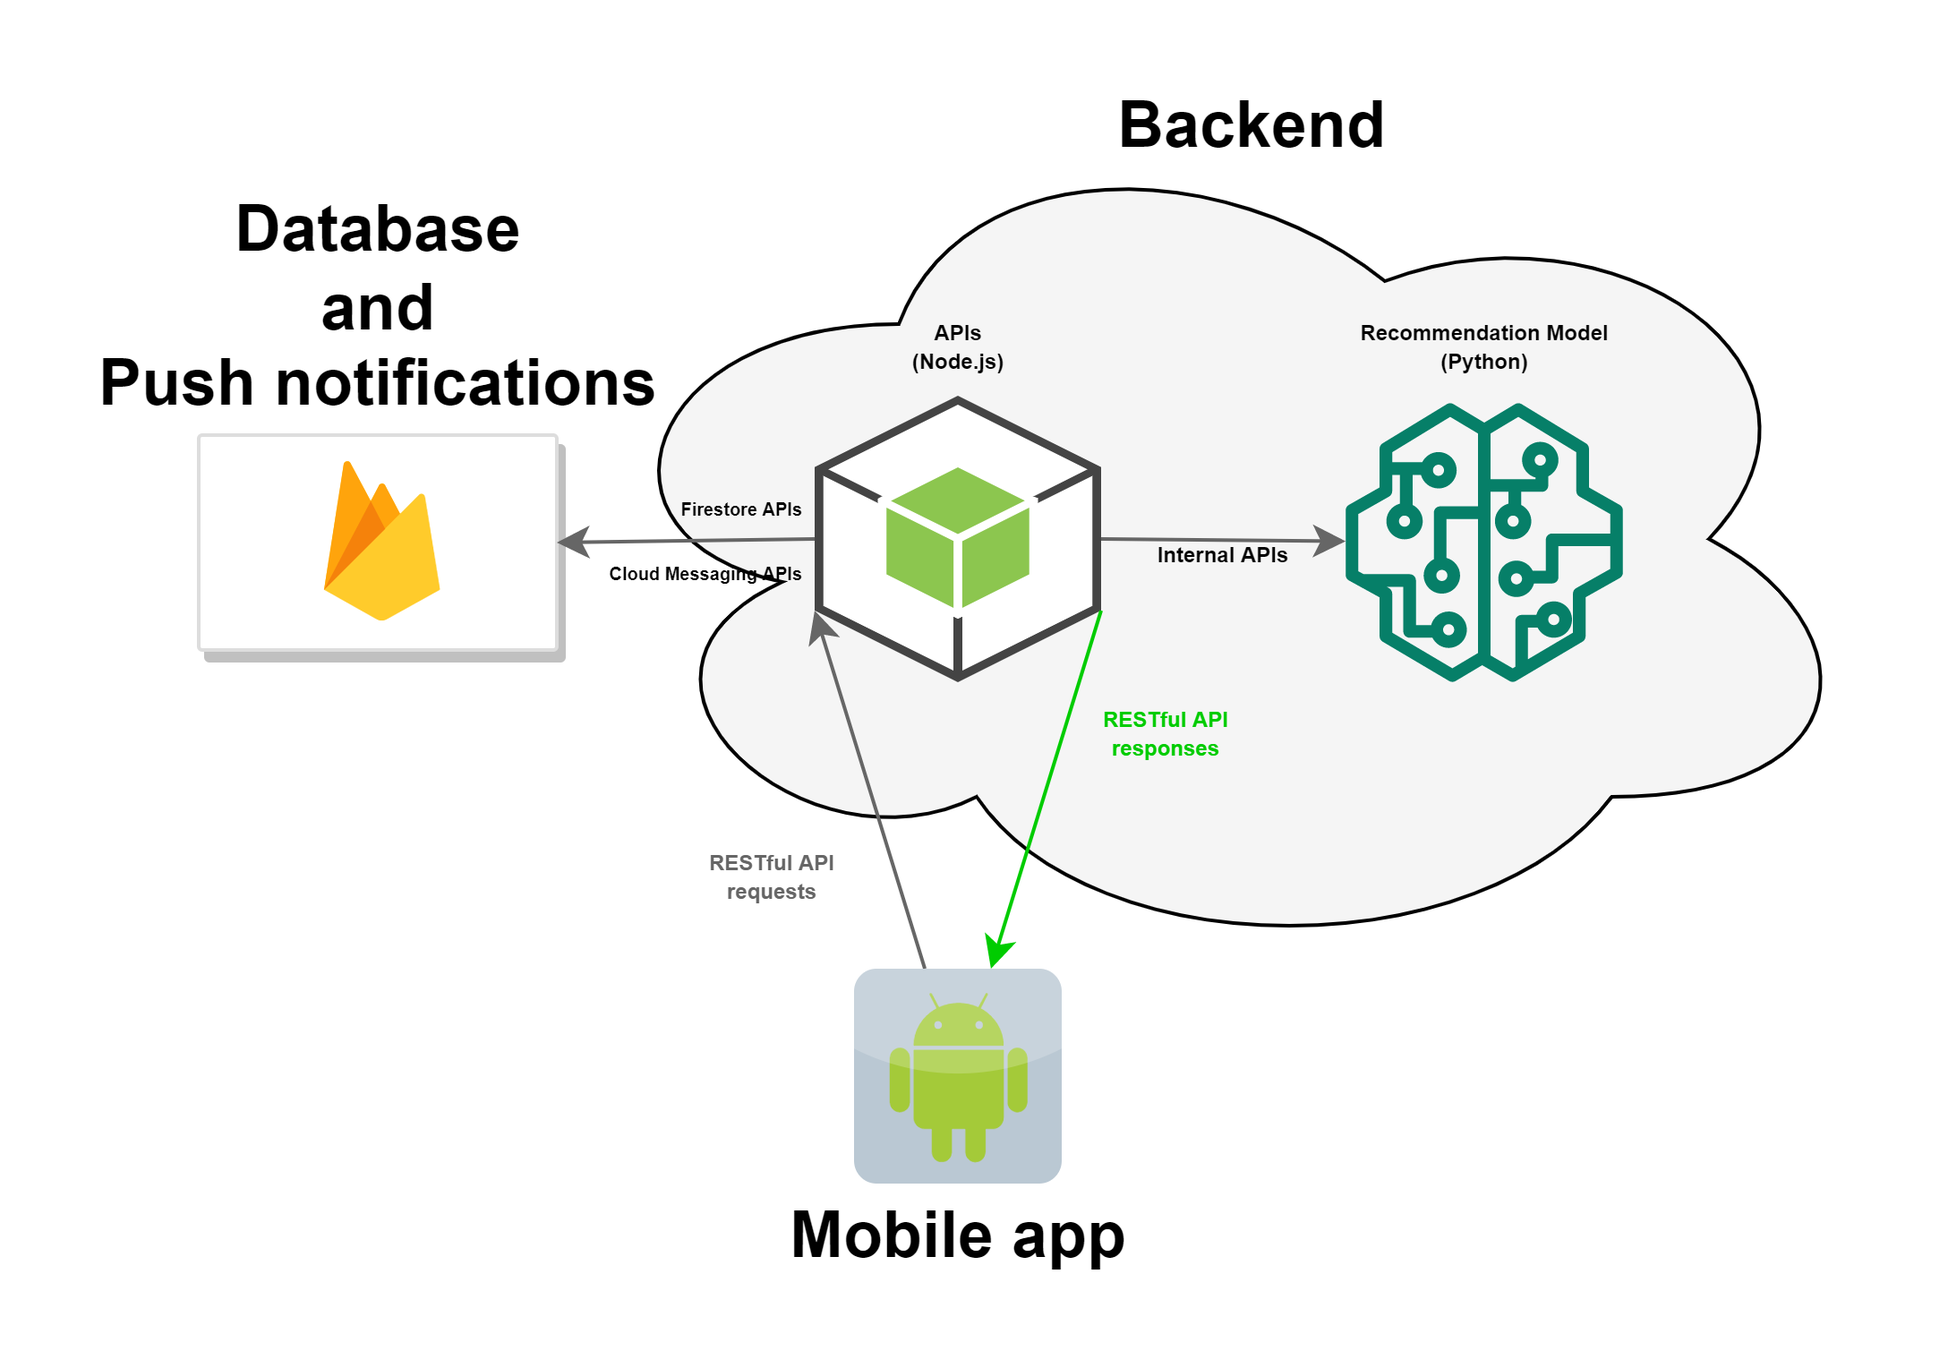
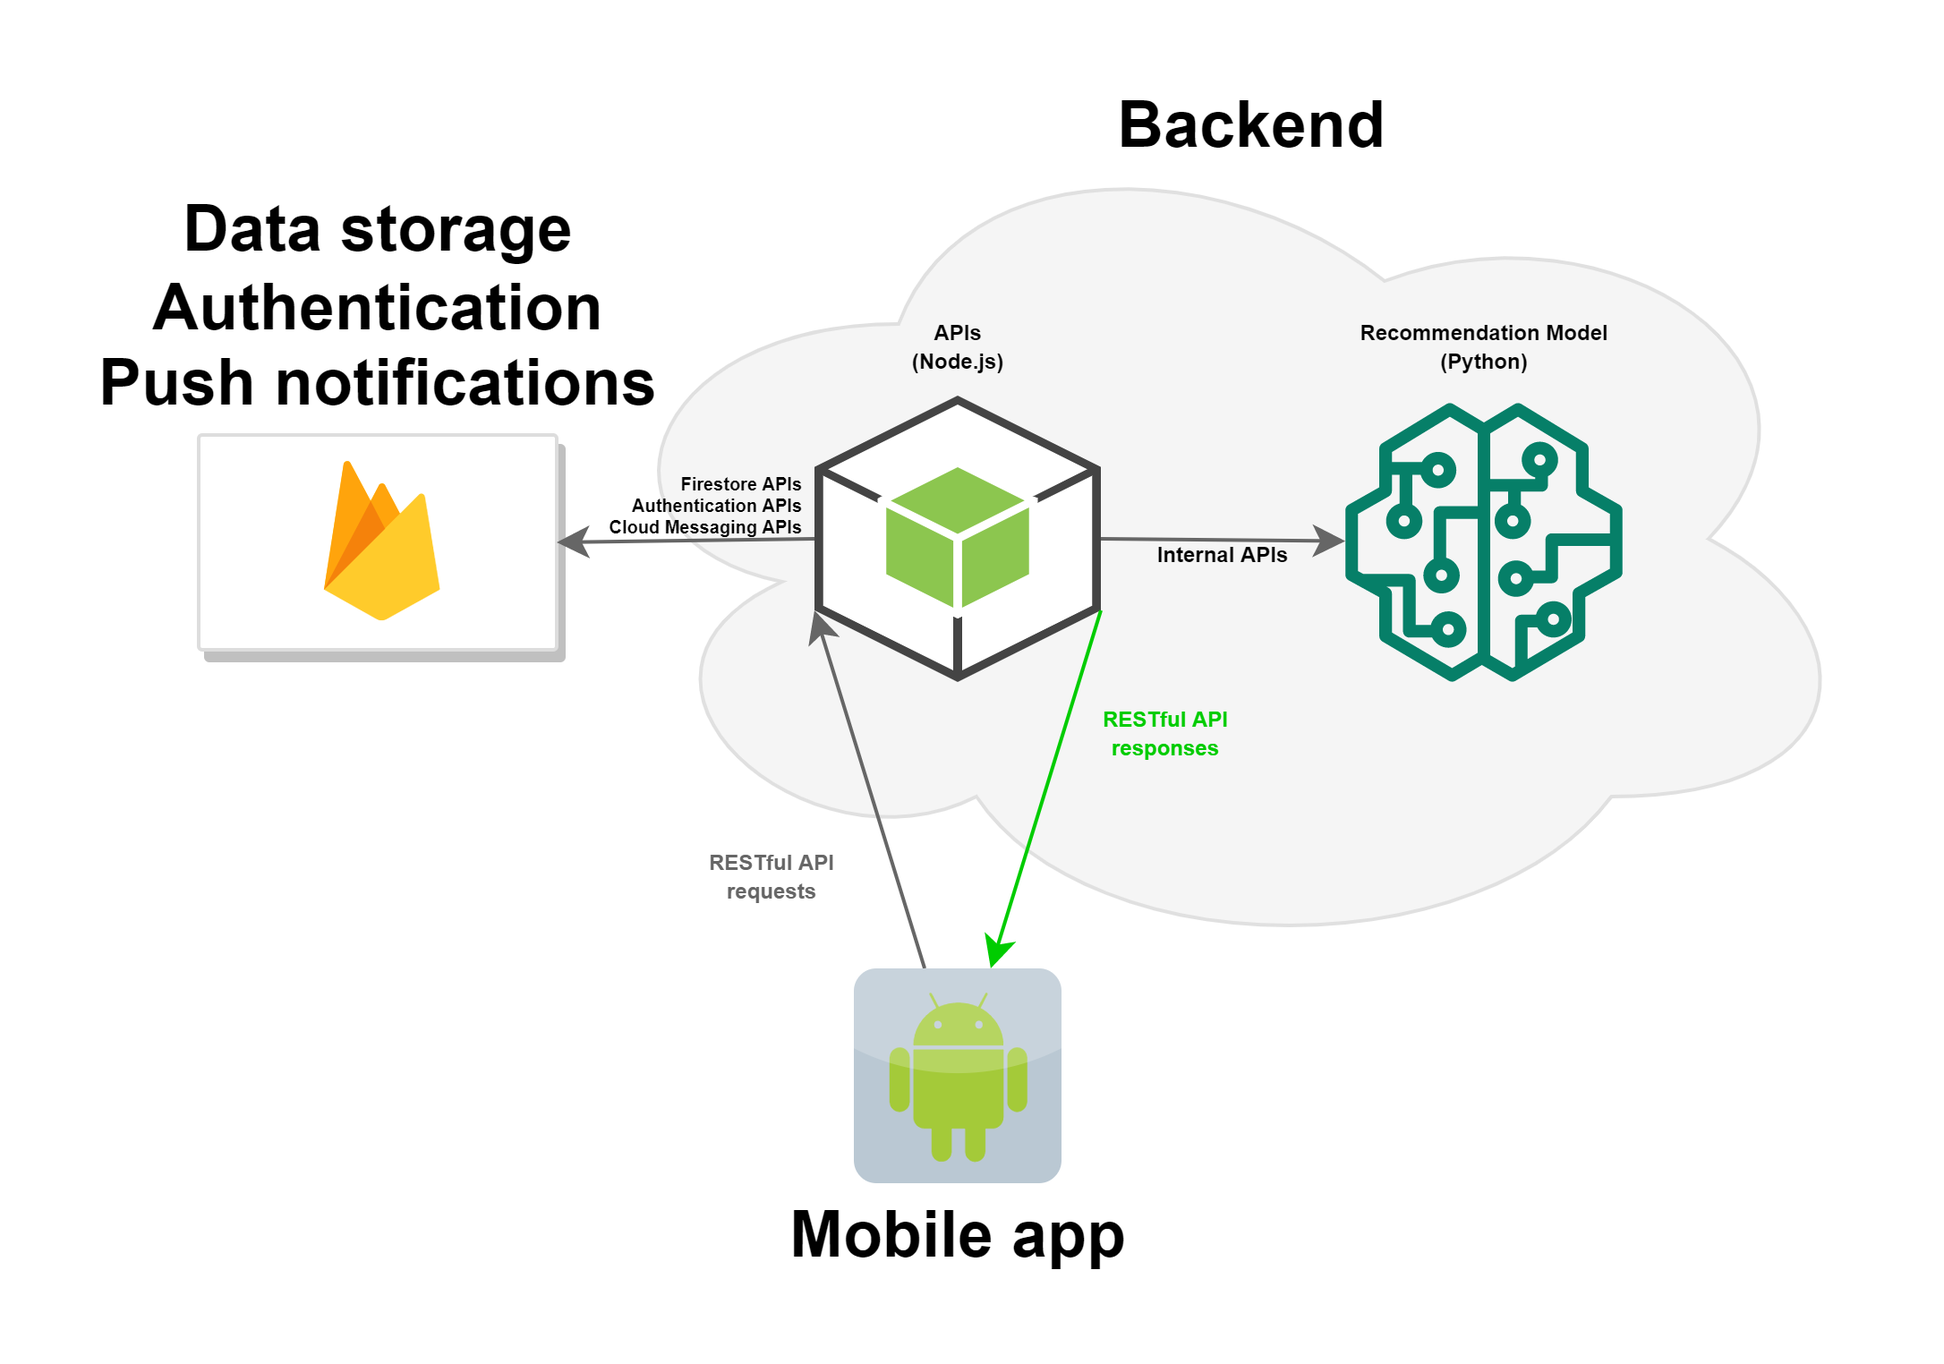
Fix 1/3

diff --git a/chapters/03_development/03_2_server_implementation_choices.tex b/chapters/03_development/03_2_server_implementation_choices.tex
@@ -17,7 +17,7 @@ We shall now present the choices we took in terms of technologies and implementa
 \label{sss:apis}
 
 The APIs of the backend are implemented mainly with \textbf{Node.js} and the library \textbf{Express}.
-The choice of the former was made because of the ease of setup it required for getting started and for its ease of configuration, compared to other frameworks;
+The choice of the former was made because of the ease of setup it required for getting started and for its ease of configuration compared to other frameworks;
 the latter came naturally since it is the most widespread library for implementing RESTful APIs with Node.js.\\
 The Node.js instance is used to handle the internal communications with:
 \begin{itemize}
@@ -26,7 +26,7 @@ The Node.js instance is used to handle the internal communications with:
     \item the push notifications service, implemented with \textbf{Firebase Cloud Messaging}, accessed via the \textbf{Firebase Admin} library;
     \item the recommendation model part of the backend, implemented with \textbf{Python}, accessed via the \textbf{Superagent} HTTP client library.
 \end{itemize}
-
+\noindent
 Let's now see the methods available to use for the client:
 \begin{enumerate}[I)]
     \item \texttt{/user-data}
@@ -68,10 +68,10 @@ Let's now see the methods available to use for the client:
 \subsubsection{Recommendation model}
 \label{sss:recommendation-model-development}
 
-The recommendation model of the backend is essentially composed by two parts:
+The recommendation model of the backend is developed in Python and it is essentially composed by two parts:
 \begin{itemize}
-    \item the RESTful APIs exposed to the backend main APIs;
-    \item the actual classifier, trained on the training dataset and the data coming from users, of which we talked about in \ref{sss:recommendation-model-design}.
+    \item the RESTful APIs exposed to the backend main APIs, implemented with the \textbf{Flask} library;
+    \item the actual classifier, trained on the training dataset and the data coming from users, of which we talked about in \ref{sss:recommendation-model-design}, implemented with the \textbf{Scikit-learn} library.
 \end{itemize}
 % After the data synthetization we build the dataset used as input to train our model. First of all we separeted the place cateogry columns because it represent the results that we want to predict, and we removed some useless information from the dataset like the data returned from Places API, the outliers and the cluster index.
 % \paragraph*{Oversample}
@@ -119,7 +119,7 @@ Those security mechanism are:
 \noindent
 Let's start with HTTPS:
 \begin{itemize}
-    \item we need to generate an HTTPS certificate to be imported by the Node.js server. We created one with this command:\\
+    \item we generated an HTTPS certificate to be imported by the Node.js server. We created one with this command:\\
     \texttt{openssl req -x509 -newkey rsa:4096 -keyout https\_private.pem}\\
     \texttt{-out https\_public.pem -sha256 -days 365}
     \item from this certificate, we could generate the server's public key to be imported inside the source code of the mobile application, with this command:\\
@@ -128,12 +128,12 @@ Let's start with HTTPS:
 \noindent
 Finally, the end-to-end encrypted communication with RSA:
 \begin{itemize}
-    \item we need to generate a private key to be imported by the Node.js server in order to decrypt the incoming messages. We do this with this command:\\
+    \item a private key needs to be generated and imported by the Node.js server in order to decrypt the incoming messages. We do this with this command:\\
     \texttt{openssl genrsa -out recommendation\_private\_key.pem 4096}
     \item with the obtained private key, we can generate the public key:\\
     \texttt{openssl rsa -in recommendation\_private\_key.pem -pubout -outform PEM}\\
     \texttt{-out recommendation\_public\_key.pem}
-    \item finally, we want to generate the public key from the private key, but in a the \texttt{.der} format, to be correctly imported by the mobile application:\\
+    \item finally, we generated the public key from the private key, but in a the \texttt{.der} format, to be correctly imported by the mobile application:\\
     \texttt{openssl rsa -in recommendation\_private\_key.pem -pubout -outform DER}\\
     \texttt{-out server\_key.der}
 \end{itemize}

diff --git a/chapters/02_design/02_4_dataset_synthetization.tex b/chapters/02_design/02_4_dataset_synthetization.tex
@@ -8,7 +8,7 @@ In order to build a recommendation model that suits the needs of our recommendat
 (over three, which are \textit{restaurants}, \textit{leisure} and \textit{sport}) given a user's current latitude and longitude, human activity, day of the week and time in the day.
 Since we did not find any such dataset, we felt the need to synthesize one ourselves.
 We started from the dataset of \textbf{Geolife}, a project which involved the collection of GPS trajectories of 182 users in a long period of time, which was the best we could find for our objectives.\\
-To achieve our goal, a pre-processing is needed.\\
+To achieve our goal, a pre-processing was needed.\\
 \textbf{Note}: One may notice that in the following paragraphs we will go a little more in depth on the steps we took compared to the other sections of this second chapter.
 This is only due to the fact that we consider these steps as part of the design process.
 
@@ -23,7 +23,7 @@ We used it to the generate a new dataset for each user and a new complete one, w
 From the initial dataset, we then wanted to understand when in their trajectories, users would stop/stay in a certain area for a certain amount of time and regard them as \textbf{stay areas}.
 From these \textbf{stay areas}, a \textbf{stay point} can be computed as the centroid of all the points in there.\\
 We were inspired by the article \textit{``Collaborative Location and Activity Recommendation with GPS History Data"}. 
-We use a distance threshold of 100 meters and a time threshold of 5 minutes to find a \textbf{stay point} in a trajectory.
+We used a distance threshold of 100 meters and a time threshold of 5 minutes to find a \textbf{stay point} in a trajectory.
 \begin{algorithm}
     \caption{ExtractStayPoints($d_{threshold}, t_{threshold}, \phi{}=\{Traj_k | 1 \le{} k \le{} |U|\}$)}
     \begin{algorithmic}

diff --git a/chapters/02_design/02_6_security_in_the_communication.tex b/chapters/02_design/02_6_security_in_the_communication.tex
@@ -7,12 +7,12 @@
 \subsubsection{HTTPS Server}
 \label{sss:https-server}
 A security mechanism, to avoid the communications being intercepted, needs to be implemented.\\
-One starting idea is to use HTTPS as a communication protocol between the client (mobile application) and the server (the APIs), but we believe this is not enough.
+One initial idea is to use HTTPS as a communication protocol between the client (mobile application) and the server (the APIs), but we believe this is not enough.
 We want to provide a way to obscure sensitive information during the communication, which is the location of the user that needs to be sent in order to receive recommendations.
 
 \subsubsection{Obscured communication}
 \label{sss:obscured-communication}
-There are many techniques to hide sensitive user data. In our scenario, that would be only location data and for that there exists some like spatial cloaking or dummy updates.
+There are many techniques to hide sensitive user data. In our scenario, that would be only location data and for that there exists such like spatial cloaking or dummy updates.
 Since we want to know the actual current position of the user, we decided that it was best to leave the location data as-is and instead use an encrypted end-to-end communication, exploiting the RSA scheme.
 Not all communications are encrypted in the final product, only those that comprehend sensitive data, i.e., the recommendations.
 Those that are left are anyway still protected by the HTTPS communication.

diff --git a/chapters/02_design/02_2_application_architecture.tex b/chapters/02_design/02_2_application_architecture.tex
@@ -8,7 +8,7 @@ Our application is designed to have many modules, each of them with its own duty
 An overview of the application can be seen in the following diagram:
 \begin{figure}[h]
     \centering
-    \includegraphics[width=0.7\textwidth]{images/application_architecture}
+    \includegraphics[width=0.65\textwidth]{images/application_architecture}
     \caption{Application architecture}\label{img:application_architecture}
 \end{figure}\\
 \noindent
@@ -25,6 +25,6 @@ Let's now focus more in detail to what purpose each of the parts in the diagram 
 \end{itemize}
 As we mentioned in the previous section, these modules are developed by us, and we decided to make use of external services for authentication and notification purposes.\\
 The \textbf{Authentication service} is called during the application start-up in order to receive rights to send requests to the backend of the system through its APIs.
-The \textbf{Push notifications service} notifies the module of the application that handles push notifications, sending all the data to fulfil what the application will need to do.
+The \textbf{Push notifications service} notifies the module of the application that handles push notifications, sending all the data to fulfil what the application needs to do.
 
 \end{document}

diff --git a/chapters/04_app/04_2_friend.tex b/chapters/04_app/04_2_friend.tex
@@ -6,7 +6,7 @@
 
 \textbf{SocialPlaces} also implements social interactions by allowing users to send, confirm and deny friendship requests from other users.
 Through this, users can not only view their \textit{pois} but also those owned by their friends, by opening the \textbf{Friends} screen from the main menu and tapping on one of their friends' name.
-With this screen, users can also send friend requests and remove friends.
+Through this screen, users can also send friend requests and remove friends.
 \begin{figure}[H]
     \centering
     \includegraphics[width=0.4\textwidth]{images/app/friend/friend_overwiew}
@@ -30,7 +30,7 @@ Users can also see the public \textit{pois} of their friends and add them to the
     \centering
     \includegraphics[width=0.4\textwidth]{images/app/friend/friend_poi}
     \includegraphics[width=0.4\textwidth]{images/app/friend/add_friend_poi}
-    \caption{On the left, the list of public \textit{pois} of a user's friend. On the right, the dialog to add a poi to the user's personal \textit{pois} list.}
+    \caption{On the left, the list of public \textit{pois} of a user's friend. On the right, the dialog to add a \textit{poi} to the user's personal \textit{pois} list.}
 \end{figure}
 
 \end{document}

diff --git a/chapters/04_app/04_4_recommendation.tex b/chapters/04_app/04_4_recommendation.tex
@@ -7,7 +7,7 @@
 The recommendation section is the most important of the whole app considering the social- and context- aware implications.
 Its purpose is to recommend places to the users of the application, both when they enter inside a \textit{geofence} and after a certain amount of time.
 Recommendations are given as the result of the prediction classifier inside the recommendation model part of the server (see \ref{ss:recommendation-model}), which can output the best result for those given arguments. 
-Places (that is, \textit{pois}) to recommend are not only searched between all the user's \textit{pois} but also between all of the public ones owned by the user's friends.
+Places (that is, \textit{pois}) to recommend are not only searched between all the user's \textit{pois} but also between all the public ones owned by the user's friends.
 When a place is found, the server sends a push notification to the user's device and, if the user taps on it, the detailed view of that \textit{poi} is shown.
 In this scenario, the user is also asked to rate the recommendation, asking whether they are satisfied of the recommendation or if they wanted some other place of another category.\\
 Some explicative pictures are shown below:

diff --git a/chapters/04_app/04_1_poi.tex b/chapters/04_app/04_1_poi.tex
@@ -5,7 +5,7 @@
 \label{ss:final-poi}
 
 A point of interest (\textit{poi}), as described earlier, is a tuple composed by a descriptive name, latitude, longitude, address (obtained through geocoding the latitude and longitude), a website URL and a phone number (if available), a category (\textit{restaurants}, \textit{sport}, \textit{leisure}) of the place.
-Users can see their points of interest in the main screen of the application, the map, as markers.
+Users can see their points of interest in the main screen of the application (the map) as markers.
 Markers in the map have different colours based on their category, in order to differentiate them.
 Users can create a new \textit{poi} by tapping on the map or by inserting an address into the search bar on top of the screen\footnote{It is actually disabled because it works through Google's Places API, which is not free. Of course, it can be enabled by giving an API key linked to an account with credits in it.}.
 If users open the \textbf{Points of interest} screen from the main menu, they can see the complete list of their \textit{pois} and from here they can view their details, share them or start the navigation to them.

diff --git a/chapters/02_design/02_3_backend_architecture.tex b/chapters/02_design/02_3_backend_architecture.tex
@@ -25,7 +25,7 @@ We can subdivide them into five main subjects:
 \begin{itemize}
     \item \textbf{Friends API}, they enable users to send, accept, or deny friend requests and to retrieve their list of friends;
     \item \textbf{Points of interest API}, they enable users to add or remove \textit{pois} from their \textit{poi} list, retrieve their \textit{poi} list and that of other friends;
-    \item \textbf{Live Events API}, they enable users to add live events to the their live events list, retrieve their live event list;
+    \item \textbf{Live Events API}, they enable users to add live events to the their live events list, retrieve their live events list;
     \item \textbf{User data API}, they enable users to send to the backend their authentication and push notification tokens;
     \item \textbf{Recommendation API}, they enable users to register for receiving recommendation for generic places (i.e., \textit{pois}) or for places of a specific category and to send data that enable the classifier to train again and improve its accuracy.
 \end{itemize}

diff --git a/chapters/01_introduction/01_2_report_structure.tex b/chapters/01_introduction/01_2_report_structure.tex
@@ -6,9 +6,9 @@
 
 The rest of this report is structured as follows:
 \begin{itemize}
-    \item in section \ref{s:design}, we will describe the design process and ideas behind the developed system;
-    \item in section \ref{s:development}, we will briefly present the development and therefore implementation choices of the final product;
-    \item in section \ref{s:app}, we will show some highlights of the final product;
-    \item in section \ref{s:results}, we will present the obtained results and go over some possible ideas to improve the product we produced.
+    \item in section \ref{s:design}, we describe the design process and ideas behind the developed system;
+    \item in section \ref{s:development}, we briefly present the development and therefore implementation choices of the final product;
+    \item in section \ref{s:app}, we show some highlights of the final product;
+    \item in section \ref{s:results}, we present the obtained results and go over some possible ideas to improve the product we produced.
 \end{itemize}
 \end{document}

diff --git a/chapters/01_introduction/01_1_description_of_the_project_idea.tex b/chapters/01_introduction/01_1_description_of_the_project_idea.tex
@@ -23,7 +23,7 @@ But the most interesting functionalities of the application come from the recomm
 There are two types of recommendations users may receive:
 \begin{itemize}
     \item \textbf{periodic recommendations}, that are received approximately once every three hours;
-    \item \textbf{location-aware recommendations}, that can be received when the user enters inside a predefined circular area of a poi, which we will call from now \textit{geofence}.
+    \item \textbf{location-aware recommendations}, that can be received when the user enters inside a predefined circular area of a \textit{poi}, which we will call from now \textit{geofence}.
     We say ``can" because they are only received when it makes sense (w.r.t. the output of the recommendation model - see \ref{ss:recommendation-model}) to make such an advice;
 \end{itemize}
 Moreover, users are notified whenever:

diff --git a/chapters/02_design/02_1_overall_system_architecture.tex b/chapters/02_design/02_1_overall_system_architecture.tex
@@ -25,7 +25,7 @@ An overall diagram describing the architecture follows.
 We will go more in detail about the \textbf{mobile application} and the \textbf{backend server} in the following two sections; here we just want to discuss a little more about the \textbf{authentication} and \textbf{push notification} \textbf{services}.
 \newpage
 \subsubsection{Authentication service}
-Since the goal of the project is to develop a context-aware system, we chose to focus on this aspect and try to take advantage of already available software.\\
+Since the goal of the project was to develop a context-aware system, we chose to focus on this aspect and try to take advantage of already available software.\\
 In the area of authentication, there are many providers that offer this kind of service.\\
 Our need is that this kind of service allows users to:
 \begin{itemize}

diff --git a/chapters/04_app.tex b/chapters/04_app.tex
@@ -5,7 +5,7 @@
 \label{s:app}
 
 The final product for the users is a mobile application for Android devices that allows them to save their points of interest, having simple social interactions 
-through the friendship requests, see and share live events with their friends and receive advices for places to visit through location-, time- and activity-aware recommendations.
+through the friendship requests, see and share live events with their friends and receive advices for places to visit through location-, social- and activity-aware recommendations.
 The main screens of the application are the \textbf{map} and the \textbf{main menu} showed in the following pictures.
 \begin{figure}[H]
     \centering
